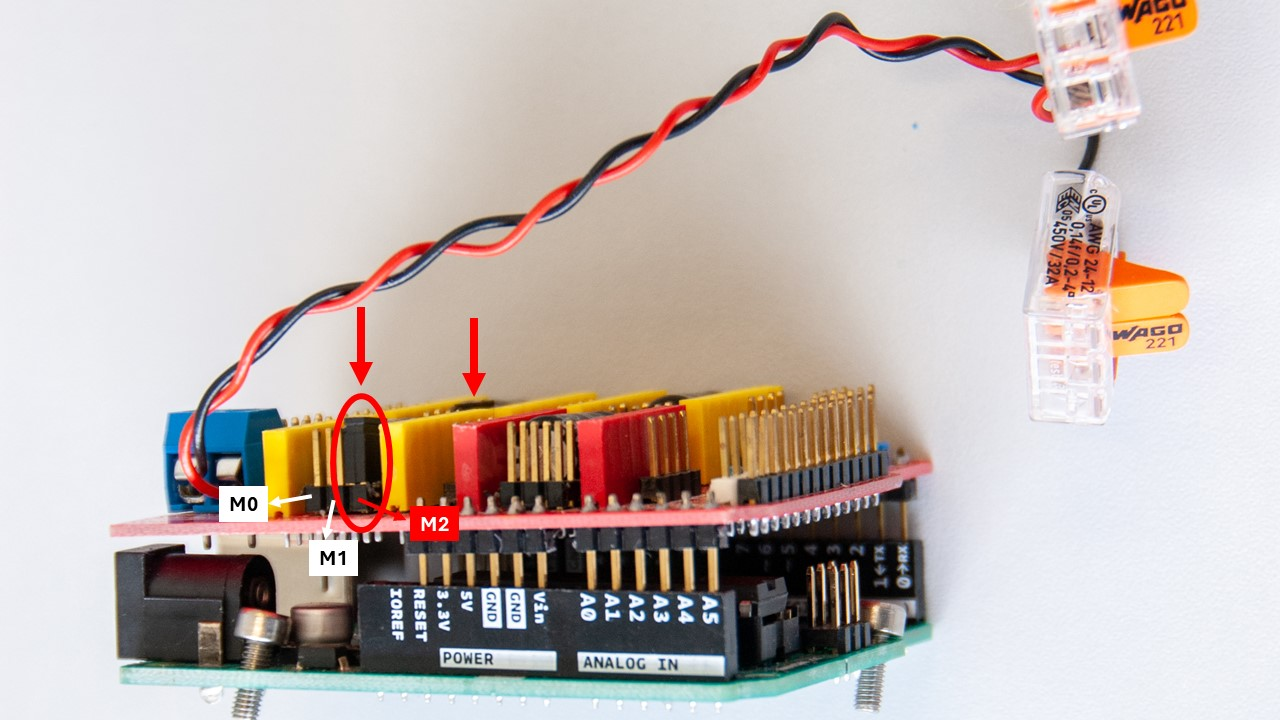
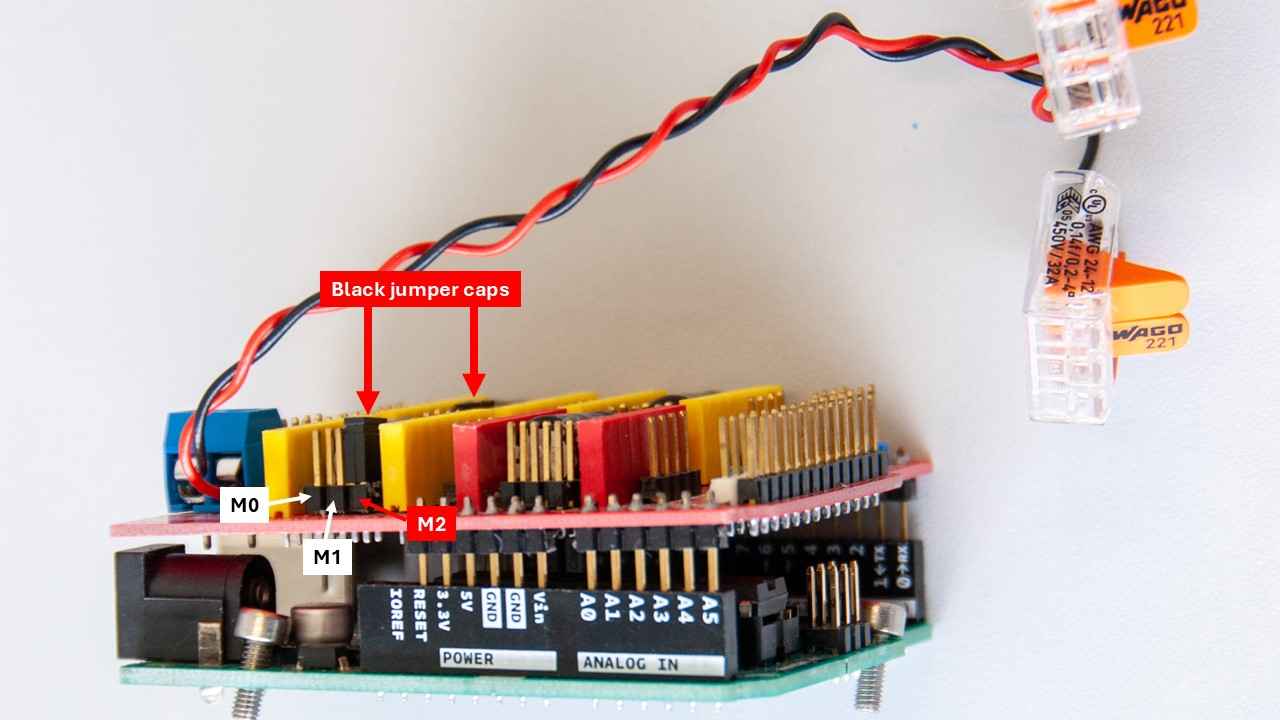
update

Changed region(s): [[0.2188, 0.3667, 0.4062, 0.7944], [0.1562, 0.6722, 0.2188, 0.7333]]

diff --git a/README.md b/README.md
@@ -4,7 +4,8 @@
 "a" - Axial: iCat's unique capability to rotate specimens along their axial axis sets it apart from conventional light microscopy techniques, allowing researchers to observe dynamic processes and capture detailed time-lapse sequences. <br>
 "t" - Tilt: iCat offers the unique capability of "Controlled Axial Tilt" providing researchers with a 360-degree perspective. This groundbreaking feature empowers researchers to examine specimens in three dimensions, facilitating the exploration of dynamic cellular processes, developmental biology, and beyond. <br>
 ![iCat rendered-front](https://github.com/osvobo/iCat/blob/main/support/media/promo/iCat_v2a_2024-Feb-22_02-36-14PM-000_CustomizedView18085180867.png)
-<br>
+<br><br>
+
 
 # Abstract
 In the field of light microscopy, imaging specimens from multiple angles and maintaining controlled temperature conditions are crucial for comprehensive and accurate analysis. To address these challenges, we present iCat, an open-source multifunctional accessory designed to revolutionize light microscopy capabilities. iCat enables the rotation of specimens along their axial axis, incorporates an in-built thermometer and Peltier element for precise temperature control, features an integrated LED light source, and is equipped with a camera. This versatile device, controlled by an Arduino-based electronic circuit and a Processing based graphical user interface (GUI), allows researchers to capture detailed images and videos of both fixed and live specimens, such as C. Elegans, Zebrafish, Drosophila, mouse embryos etc. The iCat accessory, which can be easily 3D printed and assembled using readily available electrical components, serves as a powerful tool for investigating dynamic cellular processes and complex developmental phenomena. <br><br>
@@ -13,7 +14,7 @@ In the field of light microscopy, imaging specimens from multiple angles and mai
 Light microscopy has been an invaluable tool in biological research, enabling the visualization and analysis of various biological specimens with exceptional detail. However, traditional light microscopy techniques have limitations when it comes to imaging specimens from different angles and maintaining precise temperature conditions. These limitations hinder our ability to explore dynamic cellular processes, investigate complex morphological changes, and observe real-time developmental events accurately. ZMINIT RESENI DOTED (LIGHSHEET, VAST, ….) <br>
 To address these limitations and advance the capabilities of light microscopy, we introduce iCat, a novel multifunctional accessory that combines several essential features into a single, open-source device. iCat allows researchers to rotate specimens along their axial axis, regulate the temperature within a desired range, provide ample illumination through an integrated LED light source, and capture images using its built-in camera to better navigate through the specimen. This integrated approach overcomes the challenges associated with traditional light microscopy, offering researchers a versatile tool to explore the intricacies of biological systems.  <br>
 ![iCat-detail](support/media/pics/iCat-30.jpg)
-<br>
+<br><br>
 
 # Design and Functionality
 ## Rotational Capabilities
@@ -39,7 +40,7 @@ iCat represents a significant advancement in light microscopy, addressing the li
 ## Supplies
 One of the key advantages of iCat is its open-source nature, which promotes accessibility, customization, and collaborative development. The device can be fabricated using 3D printing technology, ensuring low-cost production and easy assembly. All the electrical and mechanical components required for iCat can be readily obtained for less than $300, making it feasible for researchers with varying resources and expertise levels to replicate and utilize the device in their laboratories. For an overview of the required components, see the illustrative image and list below.
 ![alt text](support/media/pics/iCat-2.jpg)
-<br>
+<br><br>
 
 ### Electronics:
 Arduino Uno Rev3, 1x <br>
@@ -78,6 +79,7 @@ Crimp Terminals Set Kit, 1x <br>
 Dupont Line M-M + F-M + F-F Jumper Wire 10cm, 20CM, 30x <br>
 WAGO Terminals Series Splicing Connector 221-413, 2x <br>
 Mini Solderless Prototype Breadboard, 3x <br>
+Black Jumper Caps, 2x <br>
 
 ### 3D print:
 3D printer, 1x <br>
@@ -88,68 +90,70 @@ Pipette Pump 10ml, 1x <br>
 Borosilicate Glass Pasteur Pipettes, 1x <br>
 Crimping Tools SN-58B + 4 jaws, 1x <br>
 Screwdriver Set, 1x <br>
-*NOTE: The complete shopping list is in the [components sheet](support/support.xlsx).*
+*NOTE: The complete shopping list is in the [components sheet](support/support.xlsx).* <br>
 
 ## Instructions
 ### Part 1: 3D printing
-All 3D-printed parts can be printed from PETG or PLA. To print the chamber, it is recommended to use a transparent material for the first three layers in order to be able to use the transmitted light of a microscope. Otherwise, black filament should be used to reduce light reflections. The individual STL and 3MF files as well as the complete Fusion360 project are [here](support/3d). <br>
+All 3D-printed parts can be printed using PETG or PLA filaments. To print the chamber, it is recommended to use a transparent material for the first three layers in order to be able to use the transmitted light of a microscope. For the remaining parts, black filament should be used to reduce light reflections. The individual STL and 3MF files and the complete Fusion360 project are in the [3D folder](support/3d). <br>
 
 ### Part 2: iCat assembly
-To assemble iCat from individual parts, follow these instructions below, the [pinout sheet](support/support.xlsx) and the provided wiring diagram: <br>
-![alt text](support/fritzing/iCat_v2.png)
+To assemble iCat from individual parts, follow the instructions below.
 1. Insert all M3 nuts and four neodymium magnets into both 'base' parts. <br>
 ![alt text](support/media/pics/iCat-3.jpg)
-2. Slide the linear guide into the 'base-1', put both 'base' parts together, and secure the connection between them with two M3x6 screws. Attach the 'mounting plate' to the it using two M3x6 screws and secure the linear guide using four M3x5 screws. <br>
+2. Slide the linear guide into the 'base-1', put both 'base' parts together, and secure the connection between them with two M3x6 screws. Attach the 'mounting plate' using two M3x6 screws and secure the linear guide with four M3x5 screws. <br>
 ![alt text](support/media/pics/iCat-4.jpg)
-![alt text](support/media/pics/iCat-6.jpg)
+![alt text](support/media/pics/iCat-6.jpg) <br><br>
 3. Fix the 'motor plates' to NEMA motors using eighth M3x4 screws according to the image below. Attach GT2 Pulley to one of the NEMA motor. The pin connections of this NEMA motor need to be oriented vertically. <br>
-![alt text](support/media/pics/iCat-5.jpg)
+![alt text](support/media/pics/iCat-5a.jpg) <br><br>
+
 4. Secure the 'motor plates' on the 'base' using M3x4 screws. <br>
-![alt text](support/media/pics/iCat-7.jpg)
+![alt text](support/media/pics/iCat-7.jpg) <br><br>
 5. Insert three M3 nuts into the 'cargo plate-2' and attach the GT2 Idler to it using a M3x14 screw. Cut 33.5 cm of GT2 Timing Belt and pass it through the idler. Fasten the ends of the belt inside the 'cargo' according to the image below. <br>
-![alt text](support/media/pics/iCat-8.jpg)
-6. Secure the 'cargo' to the Linear Guide Carriage using two M3x4 screws and place the belt on the GT2 Pulley that was previously attached to one of the NEMA motors. Attach the 'cargo plate-2' to the 'cargo plate-1' using prepared screws. Gently tighten these screws, do not overtighten these screws, otherwise the 'base' will bend. <br>
-![alt text](support/media/pics/iCat-9.jpg)
-7. Insert the M3x6 screws into the mounting holes of the Arduino Uno and plug the CNC shield onto the Arduino, ensuring that the pins are properly aligned with the corresponding headers. To adjust micro-stepping (1/16 step), set up the M2 pin of the CNC Shield HIGH by connecting the black jumper wire as shown in the image below (red circle and arrow). Attach the DRV8825 Stepper Motor Drivers to the CNC Shield and connect the power supply wires to both the shield and the WAGO terminals. <br>
+![alt text](support/media/pics/iCat-8.jpg) <br><br>
+6. Secure the 'cargo' to the Linear Guide Carriage using two M3x4 screws and place the belt on the GT2 Pulley that was previously attached to one of the NEMA motors. Attach the 'cargo plate-2' to the 'cargo plate-1' using prepared screws. Do not overtighten these screws, otherwise the 'base' will bend. <br>
+![alt text](support/media/pics/iCat-9.jpg) <br><br>
+7. Insert the M3x6 screws into the mounting holes of the Arduino Uno and plug the CNC shield onto the Arduino, ensuring that the pins are properly aligned with the corresponding headers. To adjust micro-stepping (1/16 step), set up the M2 pin of the CNC Shield HIGH by connecting the black jumper caps, as shown in the image below. Attach the DRV8825 Stepper Motor Drivers to the CNC Shield and connect the power supply wires to both the shield and the WAGO terminals. <br>
 ![alt text](support/media/pics/iCat-10a.jpg)
-*NOTE: Before proceeding any further, the voltage reference (V<sub>REF</sub>) that corresponds to the maximum current that will flow to the stepper motors needs to be set. The maximum current of the currently used steeper motors is 1.8 A. To calculate the Vref, use this equation:* <br>
+*NOTE: Before proceeding any further, the voltage reference (V<sub>REF</sub>) that corresponds to the maximum current that will flow to the stepper motors needs to be set. The maximum current of used steeper motors is 1.8 A. To calculate the Vref, use this equation:* <br>
 **V<sub>REF</sub> = I<sub>max</sub>/2** <br>
 **V<sub>REF</sub> = 1.8/2 = 0.9 V** <br>
-*In order to set up the Vref, plug in the Arduino UNO with CNC Shield and the DRV8825 Stepper Motor Drivers to the USB port, connect the negative probe of the multimeter to the GND, connect the positive probe of the multimeter to the screwdriver tip, set the multimeter to DC Voltage measurement, and use the screwdriver to turn the potentiometer until you get the calculated voltage.* <br>
+*In order to set up the Vref, plug in the Arduino UNO with CNC Shield and the DRV8825 Stepper Motor Drivers to the USB port, connect the negative probe of the multimeter to the GND, connect the positive probe of the multimeter to the screwdriver tip, set the multimeter to DC Voltage measurement, and use the screwdriver to turn the potentiometer until you get the calculated voltage.* <br><br>
 8. Similarly to the previous step, interconnect the WAGO terminals with the IRF520 Driver Module using additional power wires. Next, connect the wire end of the first Pigtail Cable Jack to the WAGO terminals. The wire end of the other Pigtail Cable Jack needs to be connected to the IRF520 Driver Module. If needed, crimp the ends of any wires. <br>
-![alt text](support/media/pics/iCat-11.jpg)
+![alt text](support/media/pics/iCat-11.jpg) <br><br>
 9. Attach the Ardunio UNO coupled with the CNC Shield and all the wirings to the 'base' using previously inserted screws. <br>
-![alt text](support/media/pics/iCat-12.jpg)
+![alt text](support/media/pics/iCat-12.jpg) <br><br>
 10. Install wiring components on three mini breadboards according to the image below. First, plug 10 kOhm resistor into the 'Thermistor' breadboard. Shorten the resistor leads, if necessary. Plug 10 kOhm thermistor, while one of its leads connects it with the resistor. Connect the Male-Female Dupont wire to it. This will be connected to the analog input ('Abort' pin) on the CNC shield later on. The other Dupont wires need to be connected to the other thermistor lead (ground) and to the second resistor lead (5 V). Second, prepare the 'Trigger IN' breadboard by plugging a 4.7 kOhm resistor into it and connecting its terminals to the Male DC connector. Dupont wires will be connected to both of these resistor leads later on (step 14) to the ground and to the analog input ('Hold' pin) on the CNC Shield. Third, plug 10 kOhm potentiometer into the last breadboard. Two Dupont wires will be connected to the side and the middle terminals later on, connecting it to PWM digital input ('Step Y' pin of the CNC shield) and to the IRF520 Driver Module signal input. If needed, crimp the ends of any wires. <br>
-![alt text](support/media/pics/iCat-13a.jpg)
+![alt text](support/media/pics/iCat-13a.jpg) <br><br>
 11. Install the 'Potentiometer' breadboard and DC Female pigtail in to the 'base' and cover it with the 'base adapter'. <br>
-![alt text](support/media/pics/iCat-14.jpg)
+![alt text](support/media/pics/iCat-14.jpg) <br><br>
 12. Install the 'Trigger IN' breadboard and fit Male DC connector in the 'base adapter'. <br>
-![alt text](support/media/pics/iCat-15.jpg)
+![alt text](support/media/pics/iCat-15.jpg) <br><br>
 13. Install the IRF520 Driver Module and plug its Dupont wires (ground, 5 V). Plug the signal input as described in step 10. Fit Male DC connector connected to IRF520 Module in the upper right corner of the 'base'. Secure the potentiometer by its nut and attach the 'knob' to it. <br>
-![alt text](support/media/pics/iCat-16.jpg)
+![alt text](support/media/pics/iCat-16.jpg) <br><br>
 14. Install the 'Thermistor' breadboard in the 'base'. Connect Dupont wires of all the breadboards as described in step 10. Connect LED to 5 V, ground, and digital output ('Dir Y' pin) on the CNC Shield. Plug eight Dupont wires to the Arducam and connect them to the CNC Shield according to the [pinout sheet](support/support.xlsx) and the wiring diagram. Test the functionality of the device at this point before attaching the 'lid'. <br>
 ![alt text](support/media/pics/iCat-17.jpg)
 ![alt text](support/media/pics/iCat-18a.jpg)
-*NOTE: It is possible to use 5 V and GND pins of unoccupied driver bays on the CNC Shield to connect the IRF520 Driver Module and the thermistor.* <br>
+*NOTE: It is possible to use 5 V and GND pins of unoccupied driver bays on the CNC Shield to connect the IRF520 Driver Module and the thermistor.* <br><br>
 15. Attach the 'lid' to the 'base' and attach Arducam to the 'cargo' using two M3x4 screws. Install a Sleeving Cord Protector to cover the wiring of the camera. <br>
 ![alt text](support/media/pics/iCat-19.jpg)
-![alt text](support/media/pics/iCat-20a.jpg)
-16. Use 'mounting screws' to connect the iCat's 'mounting plate' to the stage of the microscope. <br>
+![alt text](support/media/pics/iCat-20a.jpg) <br><br>
+16. Use 'mounting screws' to connect the iCat's 'mounting plate' to the stage of the microscope. <br><br>
+>*NOTE: If needed, check the [pinout sheet](support/support.xlsx) and the wiring diagram.*
+![alt text](support/fritzing/iCat_v2.png) <br><br>
 
 ### Part 3: Chamber assembly
 To install the 'cover' on the sample 'chamber', follow these steps: <br>
 1. Apply grease around the perimeter of the 'chamber' window.
-![alt text](support/media/pics/iCat-36.jpg)
+![alt text](support/media/pics/iCat-36.jpg) <br><br>
 2. Gently place the Microscope Cover Glass onto the applied grease. Ensure that the grease spreads evenly under the coverslip and that it is centered.
-![alt text](support/media/pics/iCat-37.jpg)
+![alt text](support/media/pics/iCat-37.jpg) <br><br>
 3. Secure the attached cover glass with eight M3x4 screws, and tighten the screws gently.
 ![alt text](support/media/pics/iCat-38.jpg)
-*NOTE: After the initial assembly, test the chamber by filling it with water and letting it stand overnight. There should be no leaks.* <br>
+*NOTE: After the initial assembly, test the chamber by filling it with water and letting it stand overnight. There should be no leaks.* <br><br>
 4. Slide the Peltier element to the back of the chamber. Place the chamber on the 'base', and connect it to the female DC connector on the side. All iCat connectors are depicted below.
 ![alt text](support/media/pics/iCat-21.jpg)
-![alt text](support/media/pics/iCat-20a.jpg)
-<br>
+![alt text](support/media/pics/iCat-20a.jpg) <br><br>
+
 
 ### Part 4: Installation
 1. Download the entire repository, or simply download the [Arduino sketch folder](main/), the [```main.pde```](main.pde) Processing sketch, and install the [Processing application]( https://processing.org/download). Alternatively, you can download the [Processing sketch folder](processing/) and run [```iCat.exe```](processing/iCat.exe) file directly, without needing to install Processing. <br>
@@ -160,7 +164,7 @@ To install the 'cover' on the sample 'chamber', follow these steps: <br>
 ```#define OV5642_MINI_5MP_PLUS``` <br>
 5. Test the iCat by connecting the Arduino to the PC using USB-B cable, connecting the 12 V main power, the trigger IN, and the Peltier connector. Open the [```main.pde```](main.pde) and click on the arrow in the upper left corner, this will open the Graphical User Interface (GUI) of the iCat. <br>
 6. Select the port to which is the iCat connected. After successful connection, the message will appear in the console: *"iCat is ready"*. <br>
-![alt text](support/media/pics/processing.jpg)
+![alt text](support/media/pics/processing.jpg) <br><br>
 
 ### Part 5: Usage
 These instructions can be used to mount and image zebrafish embryos between 0 – 4 dpf using iCat and Zeiss AxioExaminer microscope equipped with LSM900 confocal scan head. Other specimens can be used, to image larger samples, use larger FEP tube. In such a case, the chamber needs to be modified. Using the iCat in combination with other upright microscopes should be possible, however this has not been tested. <br>
